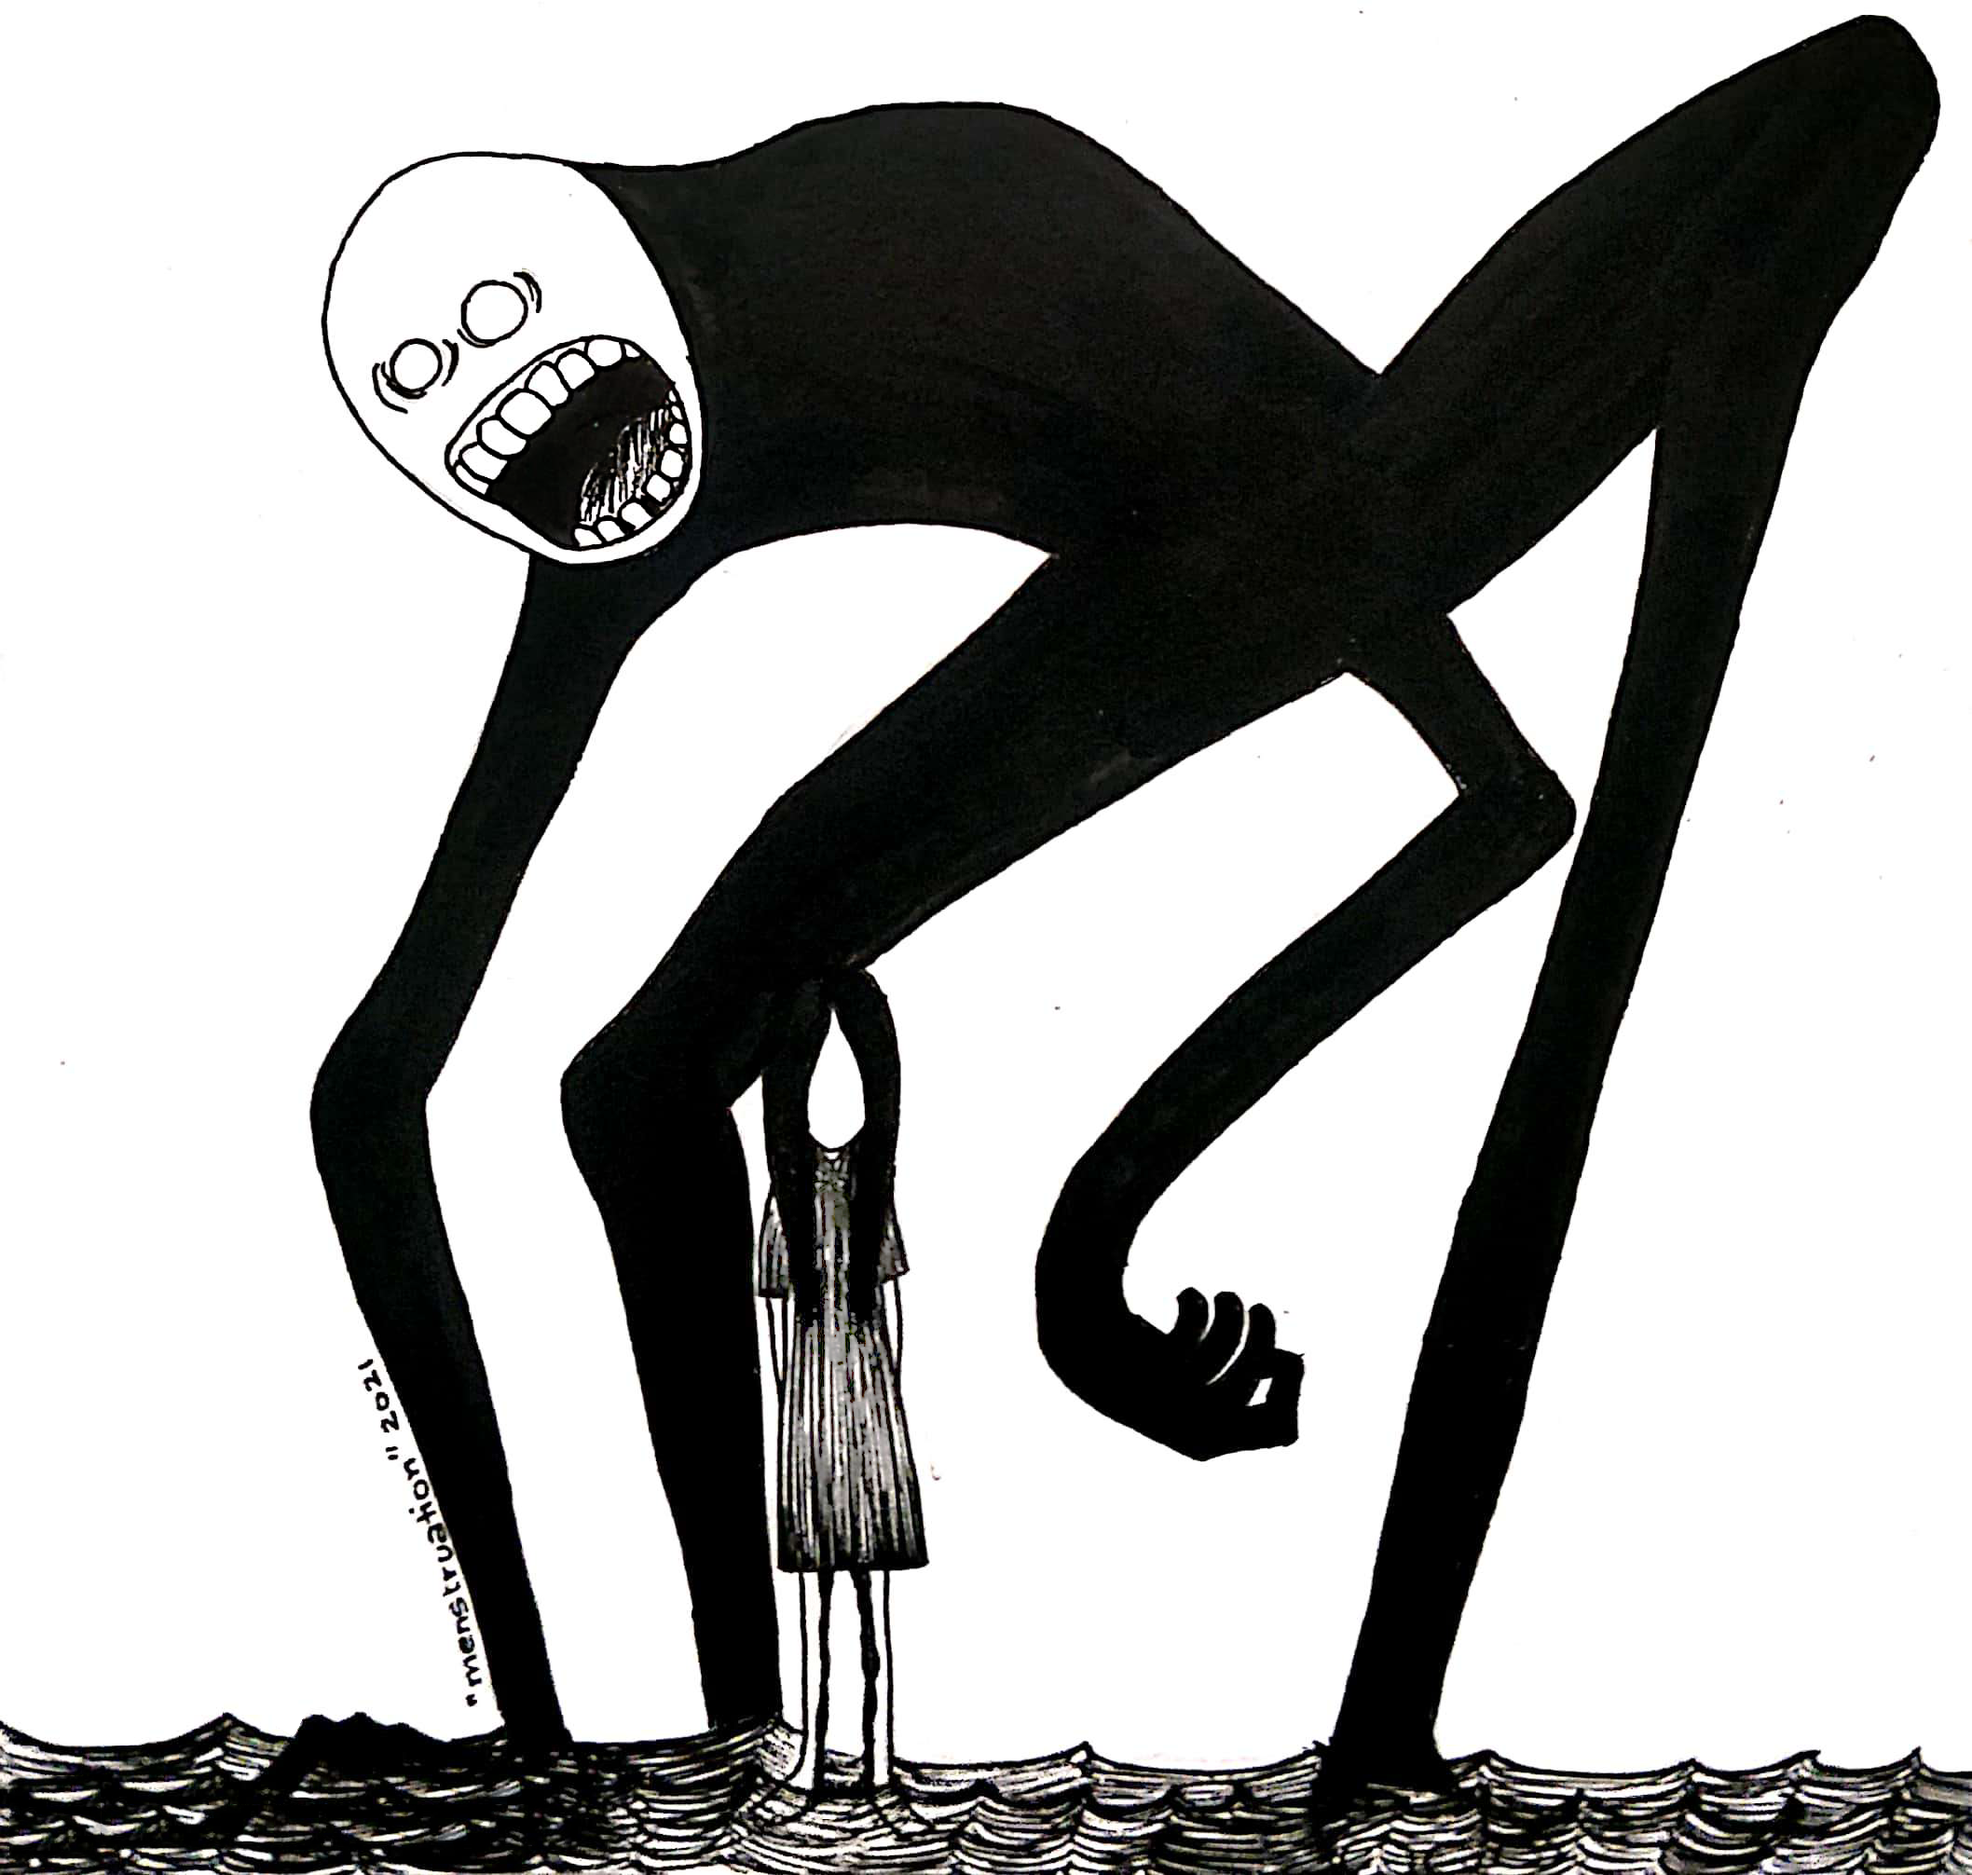
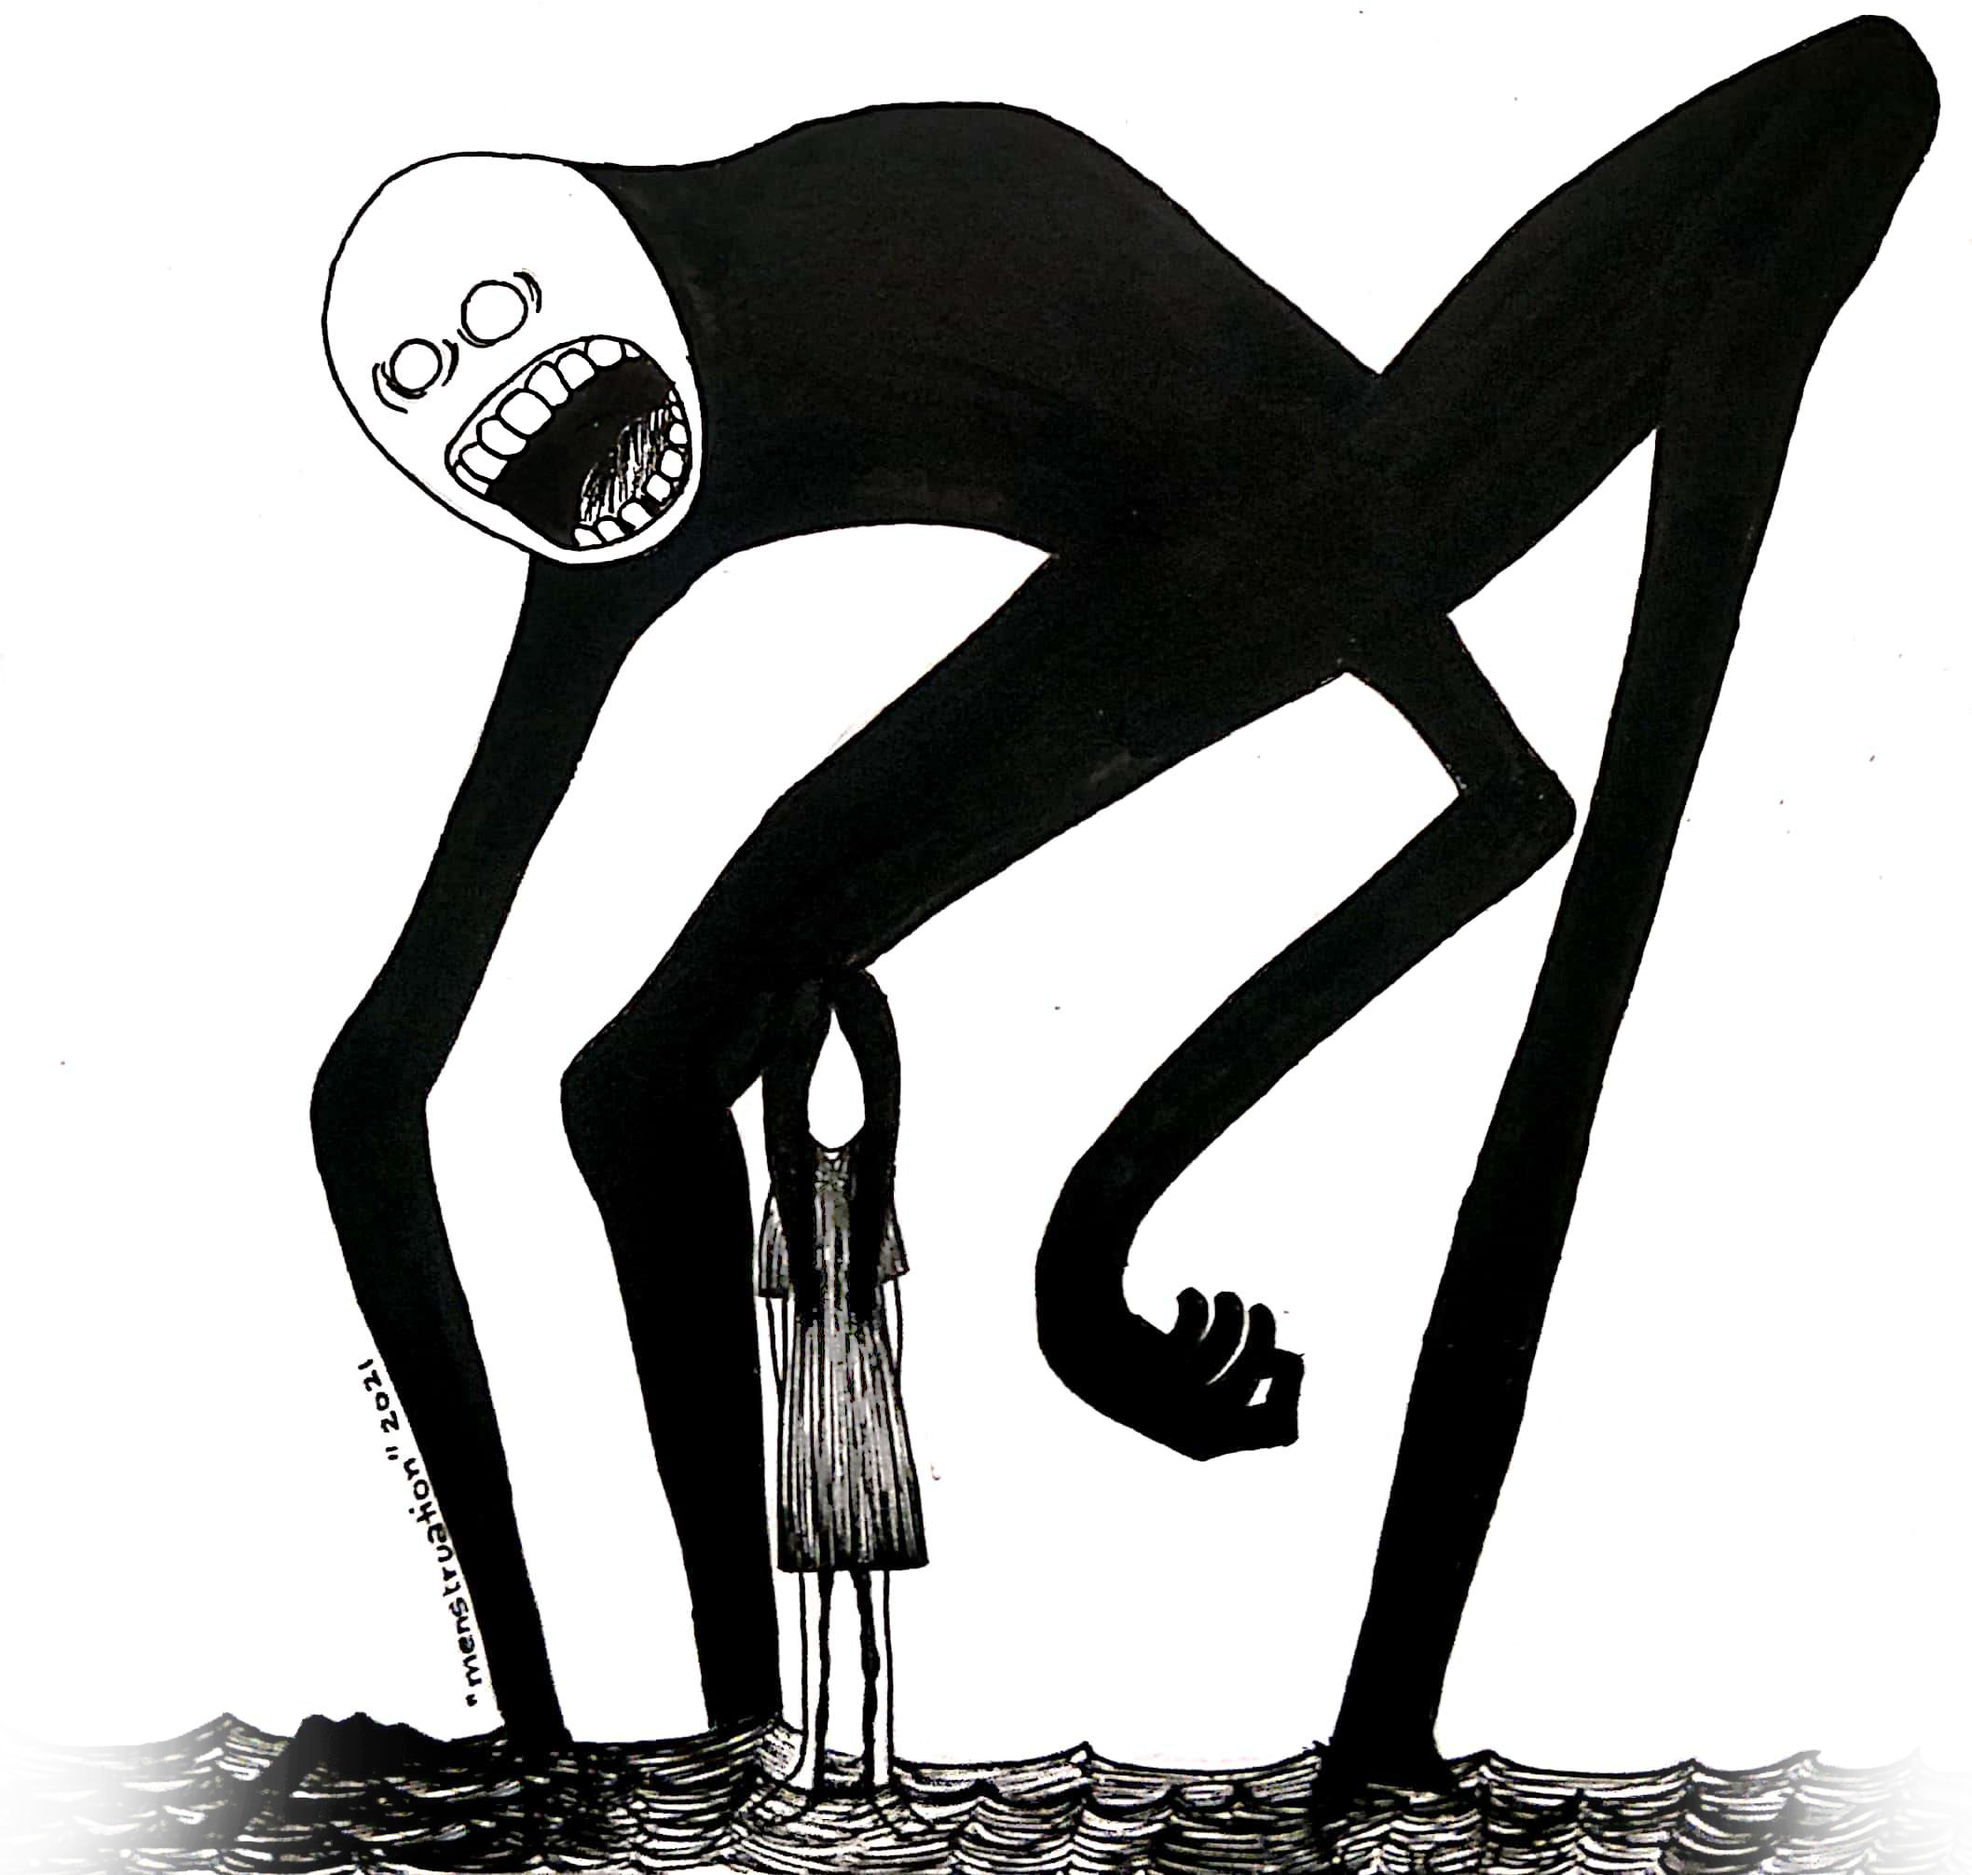
illustration 2 fix

Changed region(s): [[0.0, 0.8936, 0.1871, 1.0], [0.8422, 0.9245, 1.0, 1.0]]

diff --git a/index.html b/index.html
@@ -83,7 +83,7 @@
             <h2 class="col-6 offset-1">
               You’re paranoid each time you feel pain in your abdomen. It feels like a cloud of anticipation and dread looms over you at all times.
             </h2>
-            <img class="illustration end-0" src="./images/3-3.png" />
+            <img class="illustration end-0" src="./images/3.png" />
           </div>
         </div>
         <div class="carousel-item">
